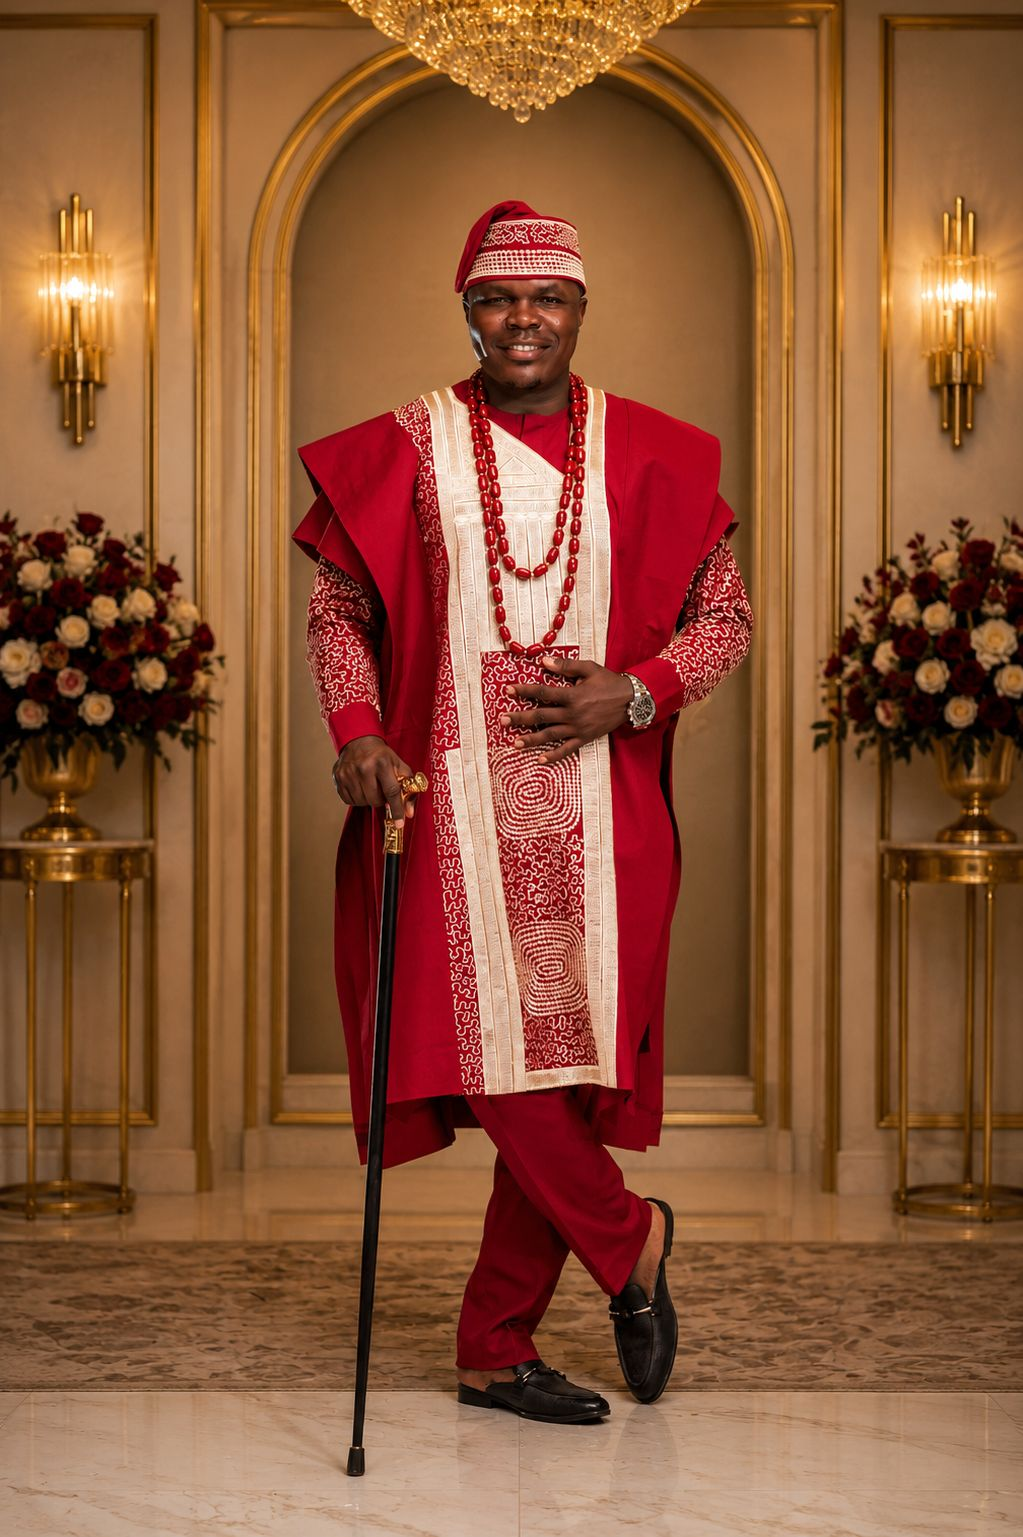
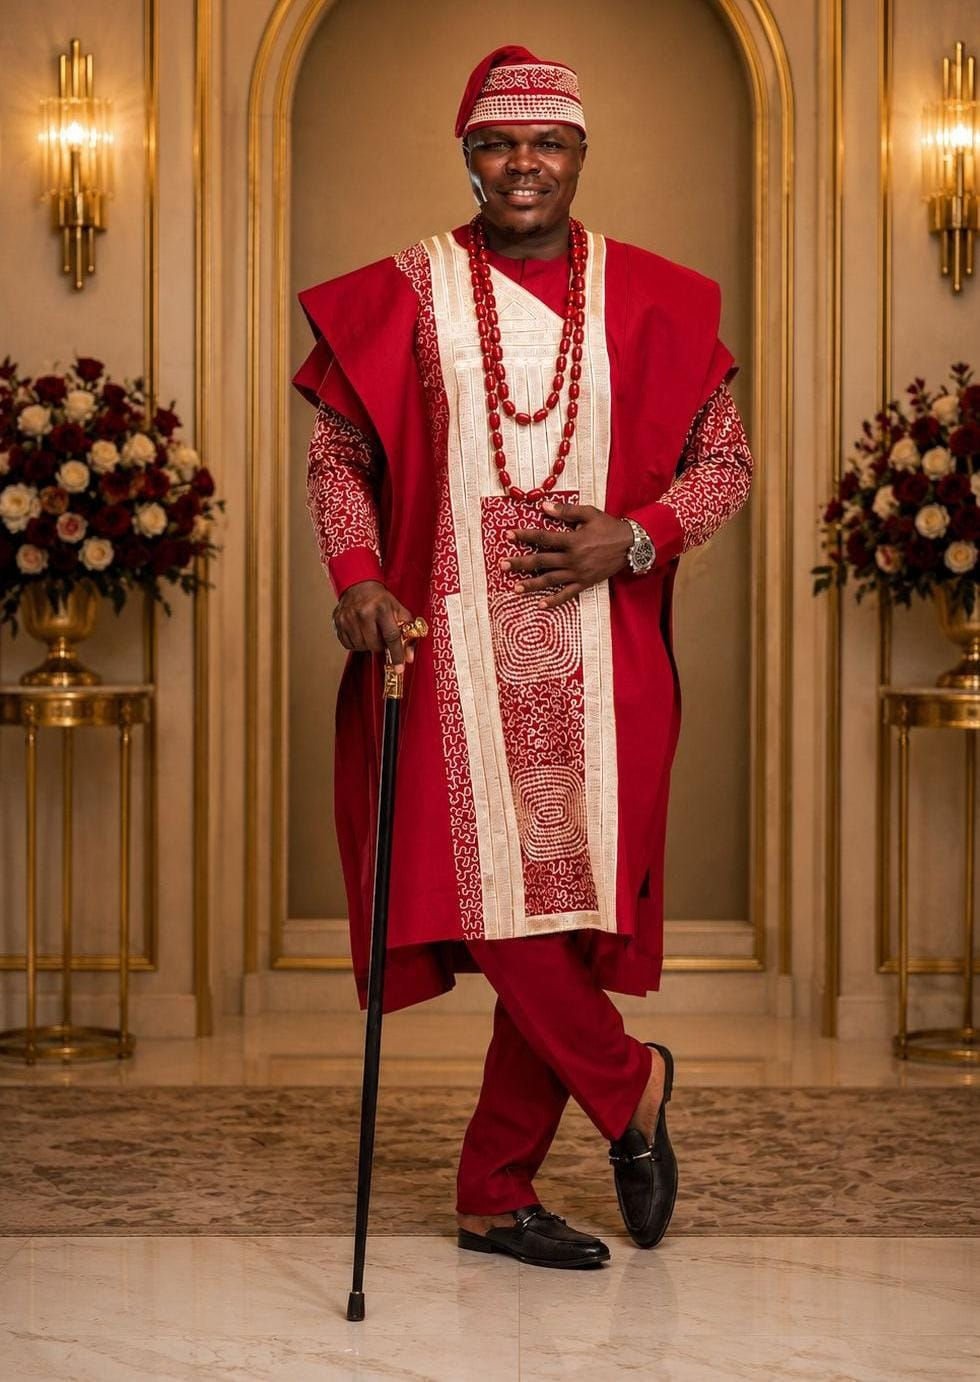
Update

diff --git a/index.html b/index.html
@@ -683,7 +683,7 @@ a:focus-visible, button:focus-visible, input:focus-visible, textarea:focus-visib
 @media(min-width:860px){
   .verse-photo{ width:100%; max-width:220px; }
 }
-.verse-photo img{ width:100%; height:100%; object-fit:cover; object-position:top center; }
+.verse-photo img{ width:100%; height:100%; object-fit:contain; object-position: center; display:block;}
 .verse-who{
   font-family:var(--font-display); font-style:italic;
   font-size:1.35rem; color:var(--sage-deep); margin-bottom:0.35rem;
@@ -1079,12 +1079,12 @@ a:focus-visible, button:focus-visible, input:focus-visible, textarea:focus-visib
 }
 .rsvp-contacts{
   margin-top:1.8rem;
-  text-align:center;
-  display:flex; flex-wrap:wrap; justify-content:center; align-items:center;
+  text-align:left;
+  display:flex; flex-wrap:wrap; justify-content:left; align-items:left;
   gap:0.45rem 2.2rem;
   font-size:0.82rem; letter-spacing:0.03em; color:var(--ink-soft);
 }
-.rsvp-contact{ display:inline-flex; align-items:center; gap:0.35rem; }
+.rsvp-contact{ display:inline-flex; align-items:left; gap:0.35rem; }
 .rsvp-contact{ white-space:nowrap; }
 .rsvp-contacts a{ color:var(--sage-deep); text-decoration:underline; text-underline-offset:2px; }
 
@@ -1386,7 +1386,7 @@ a:focus-visible, button:focus-visible, input:focus-visible, textarea:focus-visib
       <div class="wreath reveal">
         <svg viewBox="0 0 200 90"><path d="M20 70 C40 20, 80 10, 100 10 C120 10, 160 20, 180 70" /></svg>
       </div>
-      <h2 class="section-title reveal">Counting down to <em>our forever</em></h2>
+      <h2 class="section-title reveal">Counting down to our forever</em></h2>
       <div class="countdown-grid reveal reveal-delay-1">
         <div class="count-box">
           <div class="count-num" id="cd-days">00</div>
@@ -1429,7 +1429,7 @@ a:focus-visible, button:focus-visible, input:focus-visible, textarea:focus-visib
 
   <section class="verses" id="verses">
     <div class="container">
-      <h2 class="section-title reveal">Words We Live <em>By</em></h2>
+      <h2 class="section-title reveal">Words We Live By</em></h2>
       <div class="verses-grid">
         <div class="verse-card reveal">
           <div class="verse-who">Winnie Says</div>
@@ -1594,7 +1594,7 @@ a:focus-visible, button:focus-visible, input:focus-visible, textarea:focus-visib
         <svg viewBox="0 0 200 90"><path d="M20 70 C40 20, 80 10, 100 10 C120 10, 160 20, 180 70" /></svg>
       </div>
       <span class="eyebrow reveal" style="display:block;text-align:center;">Order Of The Day</span>
-      <h2 class="section-title reveal">The <em>Programme</em></h2>
+      <h2 class="section-title reveal">The Programme</em></h2>
 
       <div class="programme-list">
 
@@ -1670,7 +1670,7 @@ a:focus-visible, button:focus-visible, input:focus-visible, textarea:focus-visib
       </span>
 
       <h2 class="section-title reveal">
-        Mark Your <em>Calendar</em>
+        Mark Your Calendar</em>
       </h2>
 
       <div class="calendar-card reveal">
